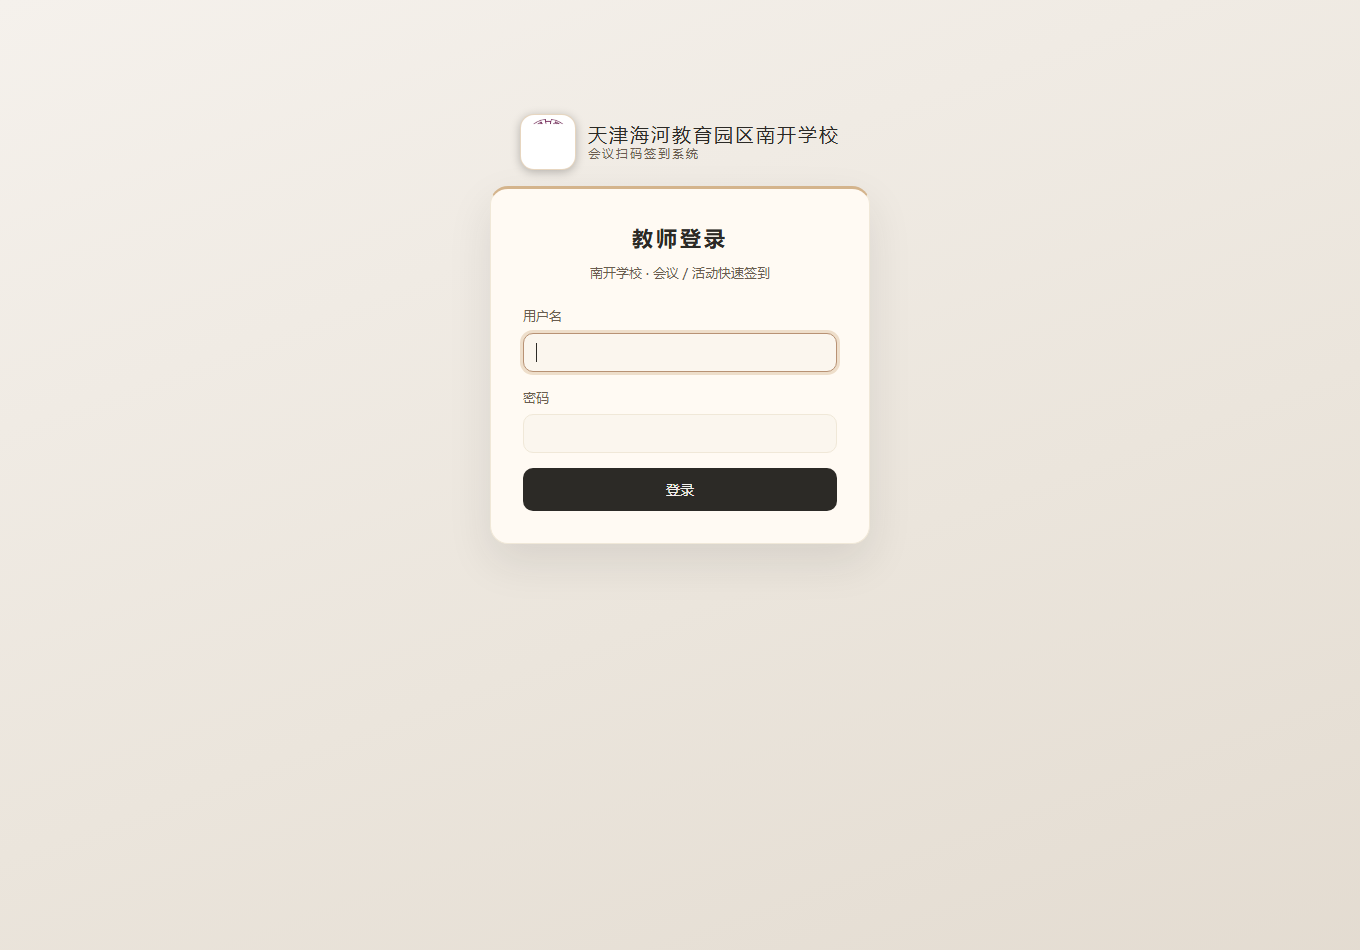
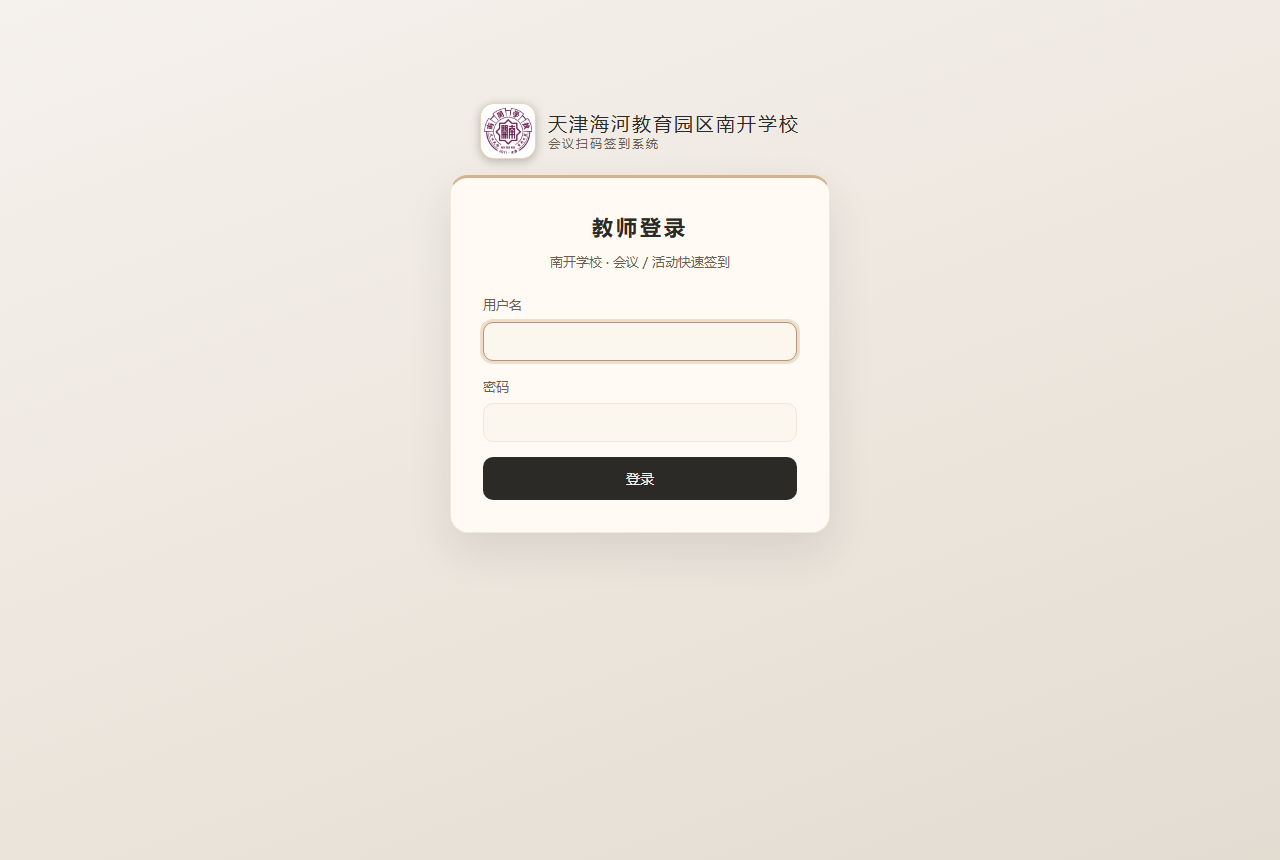
chore: 补充线上校徽实拍脚本

Changed region(s): [[0.3438, 0.2419, 0.6562, 0.6349], [0.3438, 0.1209, 0.6562, 0.2116]]

diff --git a/tools/ui_live_login_shot.js b/tools/ui_live_login_shot.js
@@ -1,0 +1,28 @@
+// 线上登录页补拍（等待图片解码完成）
+const puppeteer = require('D:/软件/MiniMax/.minimax/skills/house-plan-designer/scripts/node_modules/puppeteer-core');
+const OUT = 'D:/MiniMax工作站/签到系统/_screenshots';
+const BASE = 'https://web-production-9fe1faa8.up.railway.app';
+
+(async () => {
+  const browser = await puppeteer.launch({
+    executablePath: 'C:/Program Files (x86)/Microsoft/Edge/Application/msedge.exe',
+    headless: 'new', args: ['--no-sandbox', '--disable-gpu']
+  });
+  const p = await browser.newPage();
+  await p.setViewport({ width: 1280, height: 860 });
+  await p.goto(BASE + '/login', { waitUntil: 'networkidle2' });
+  await p.waitForFunction(() => {
+    const img = document.querySelector('.school-logo');
+    return img && img.complete && img.naturalWidth > 0;
+  }, { timeout: 15000 });
+  await new Promise(r => setTimeout(r, 500));
+  const info = await p.evaluate(() => {
+    const img = document.querySelector('.school-logo');
+    const r = img.getBoundingClientRect();
+    return { natural: img.naturalWidth + 'x' + img.naturalHeight, shown: Math.round(r.width) + 'x' + Math.round(r.height) };
+  });
+  console.log('校徽加载:', JSON.stringify(info));
+  await p.screenshot({ path: OUT + '/L1-login.png' });
+  await browser.close();
+  console.log('ok');
+})().catch(e => { console.error('FAIL', e); process.exit(1); });
